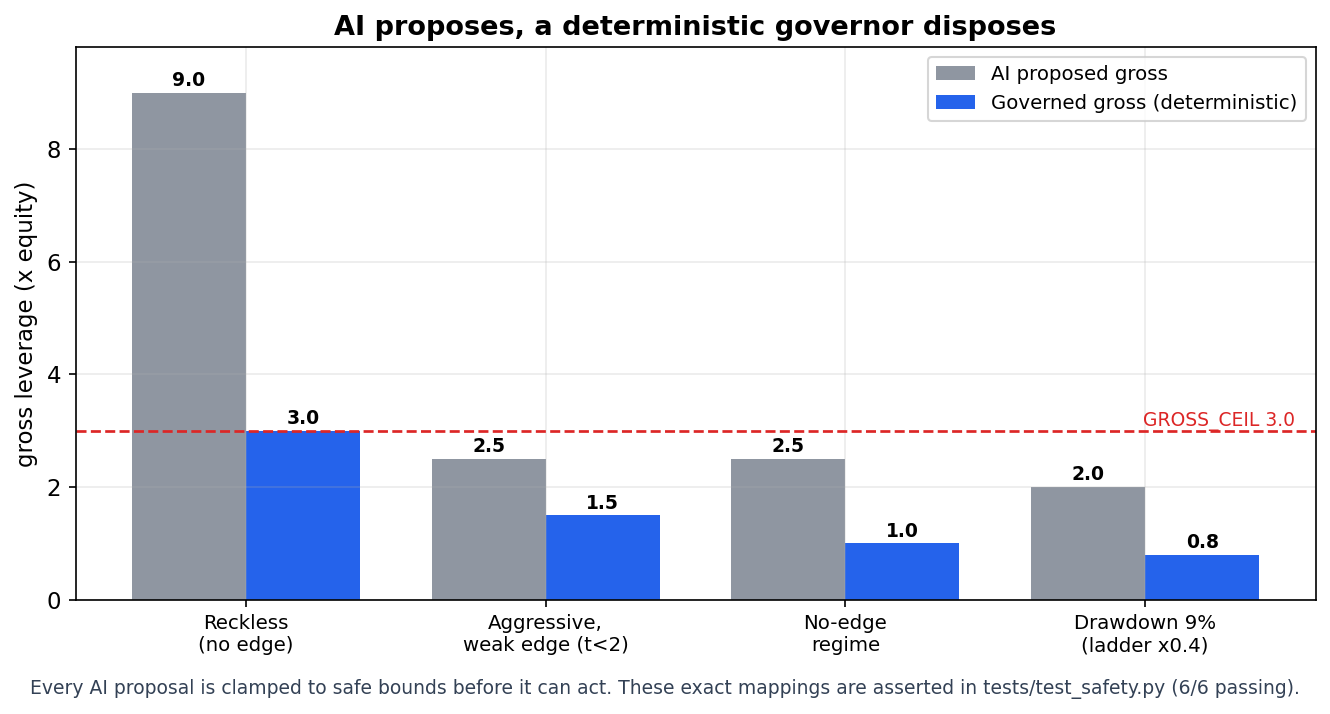
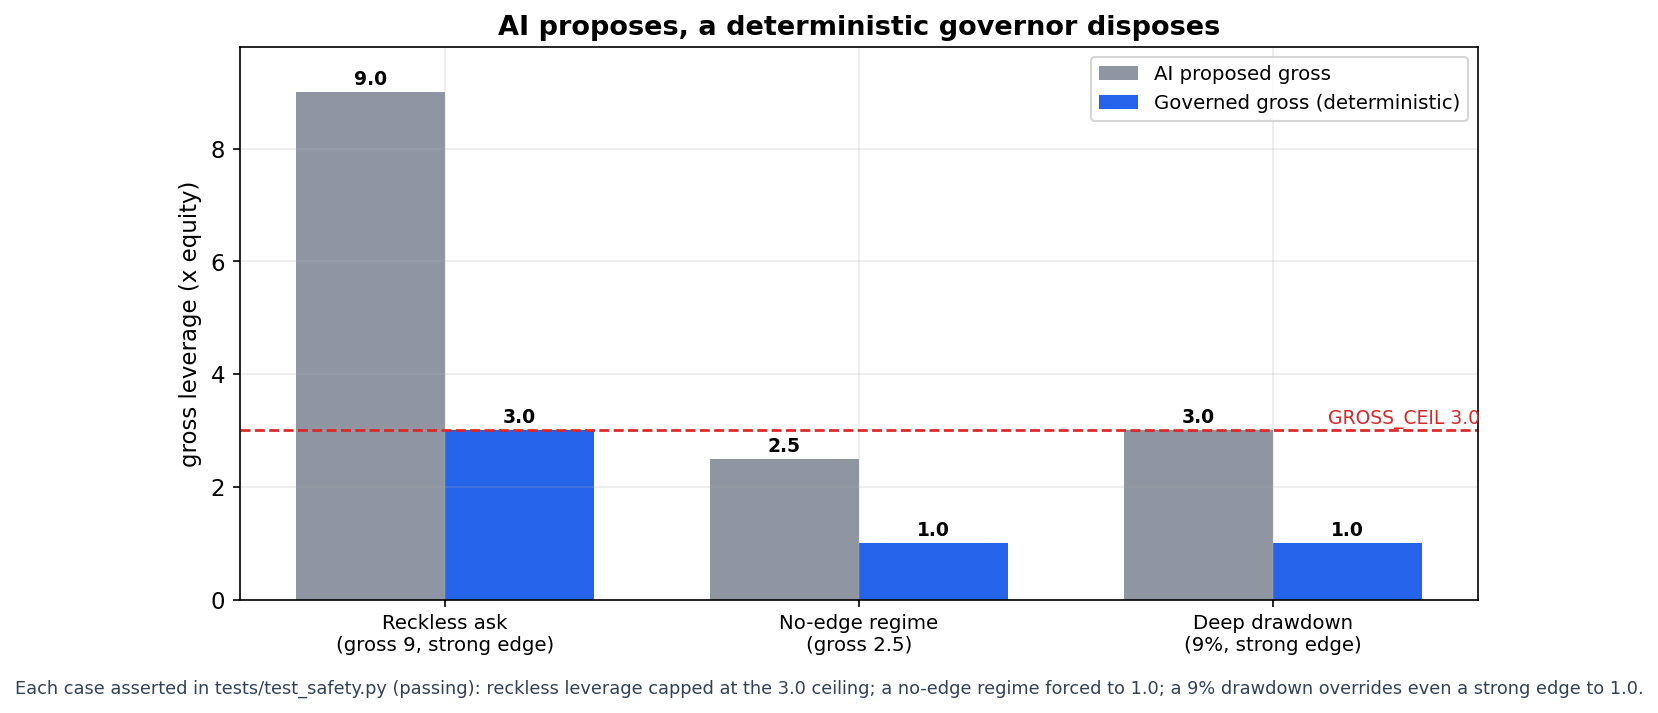
final

diff --git a/README.md b/README.md
@@ -12,7 +12,7 @@ $1,000,000 simulated · scored **70% Return / 15% Drawdown / 10% Sharpe / 5% Ris
 ## What makes this different
 
 1. **Autopilot - an autonomous, *governed* AI desk.** Each cycle, **NVIDIA Nemotron** (Analyst) classifies the live regime and **Anthropic Claude** (Strategist) proposes the next strategy / gross / cadence - every proposal a **Pydantic-validated** object - then a deterministic **Governor** clamps it to competition-safe limits. It *provably* cannot size up in a no-edge regime, caps an unproven edge, and obeys the drawdown ladder (a reckless `gross=9` proposal is clamped to 3.0; a 2.5 ask in a no-edge regime is forced to 1.0). **AI proposes, a deterministic governor disposes, Logfire traces all of it.** → [`live/autopilot.py`](live/autopilot.py)
-2. **I let the data overturn my own thesis.** A live information-coefficient + autocorrelation study showed momentum was the *wrong sign* in this regime - hourly returns persistently **mean-revert** (lag-1 autocorr ≈ −0.2). I retired my backtest champion and built a mean-reversion strategy in response. → [`live/edge_scan.py`](live/edge_scan.py), [`live/micro_scan.py`](live/micro_scan.py)
+2. **I let the data overturn my own thesis.** A live information-coefficient + autocorrelation study showed momentum was the *wrong sign* in this regime - hourly returns persistently **mean-revert** (lag-1 autocorr around −0.1 to −0.2 across windows). I retired my backtest champion and built a mean-reversion strategy in response. → [`live/edge_scan.py`](live/edge_scan.py), [`live/micro_scan.py`](live/micro_scan.py)
 3. **I tested the scalper meta honestly - at zero risk.** A dry probe paper-traded on **live ticks** and reported P&L *net of the real spread*: it ruled out FX scalping (spread > move) and found BTC marginal-but-fat-tailed - so I **declined to deploy it**. Discipline over FOMO. → [`live/scalp.py`](live/scalp.py)
 4. **Layered, provable risk.** Risk-engine caps + a drawdown ladder + a novel **profit-lock ratchet** + a 3-minute circuit breaker + preflight halts - every AI overlay is strictly *reduce-only* - and the caps + governor are **proven by a runnable test suite** ([`tests/test_safety.py`](tests/test_safety.py), 6/6 passing). → [`risk_engine.py`](risk_engine.py), [`live/profit_lock.py`](live/profit_lock.py), [`live/fast_monitor.py`](live/fast_monitor.py)
 5. **Every sponsor is used for something real**, in the live system (details below).

diff --git a/TECH_PRIZE_SUBMISSION.md b/TECH_PRIZE_SUBMISSION.md
@@ -92,7 +92,7 @@ The competition opened into a **choppy, momentum-adverse regime**. Rather than h
 - **Gross dial** - cut exposure (2 → 1) when the edge was absent; the **fast risk monitor** applied the resize within minutes and confirmed it (margin level 1,500% → 3,000%).
 - **Fast risk monitor** (`fast_monitor.py`, every 3 min) - an intra-cycle circuit breaker enforcing the de-risk ladder so a shock between rebalances is handled in minutes, not at the top of the next hour.
 - **The AI desk surfaced a real risk I then fixed in code:** three independent model views flagged that gold+silver shorts were co-dominating (~35% of gross); I added a **metals-sector cap** in response.
-- **I let the data overturn my own thesis.** A live **autocorrelation + IC study** (`edge_scan.py`, `micro_scan.py`) showed momentum was the *wrong sign* in this regime - hourly returns were persistently **mean-reverting** (lag-1 autocorr ≈ −0.2, stable across sub-periods). I built and wired a **mean-reversion strategy** (`rev`) in response. Retiring my own backtest champion the moment the live data disagreed is the discipline I'm proudest of.
+- **I let the data overturn my own thesis.** A live **autocorrelation + IC study** (`edge_scan.py`, `micro_scan.py`) showed momentum was the *wrong sign* in this regime - hourly returns were persistently **mean-reverting** (lag-1 autocorr around −0.1 to −0.2, stable across sub-periods). I built and wired a **mean-reversion strategy** (`rev`) in response. Retiring my own backtest champion the moment the live data disagreed is the discipline I'm proudest of.
 - **`strat_compare.py`** scores every candidate **across sub-periods** (not just the full window), so I pick what *generalises* rather than what fits - the direct antidote to the overfitting that flattered my first momentum reads.
 
 ### Autopilot - the system that re-tunes *itself* (`live/autopilot.py`)